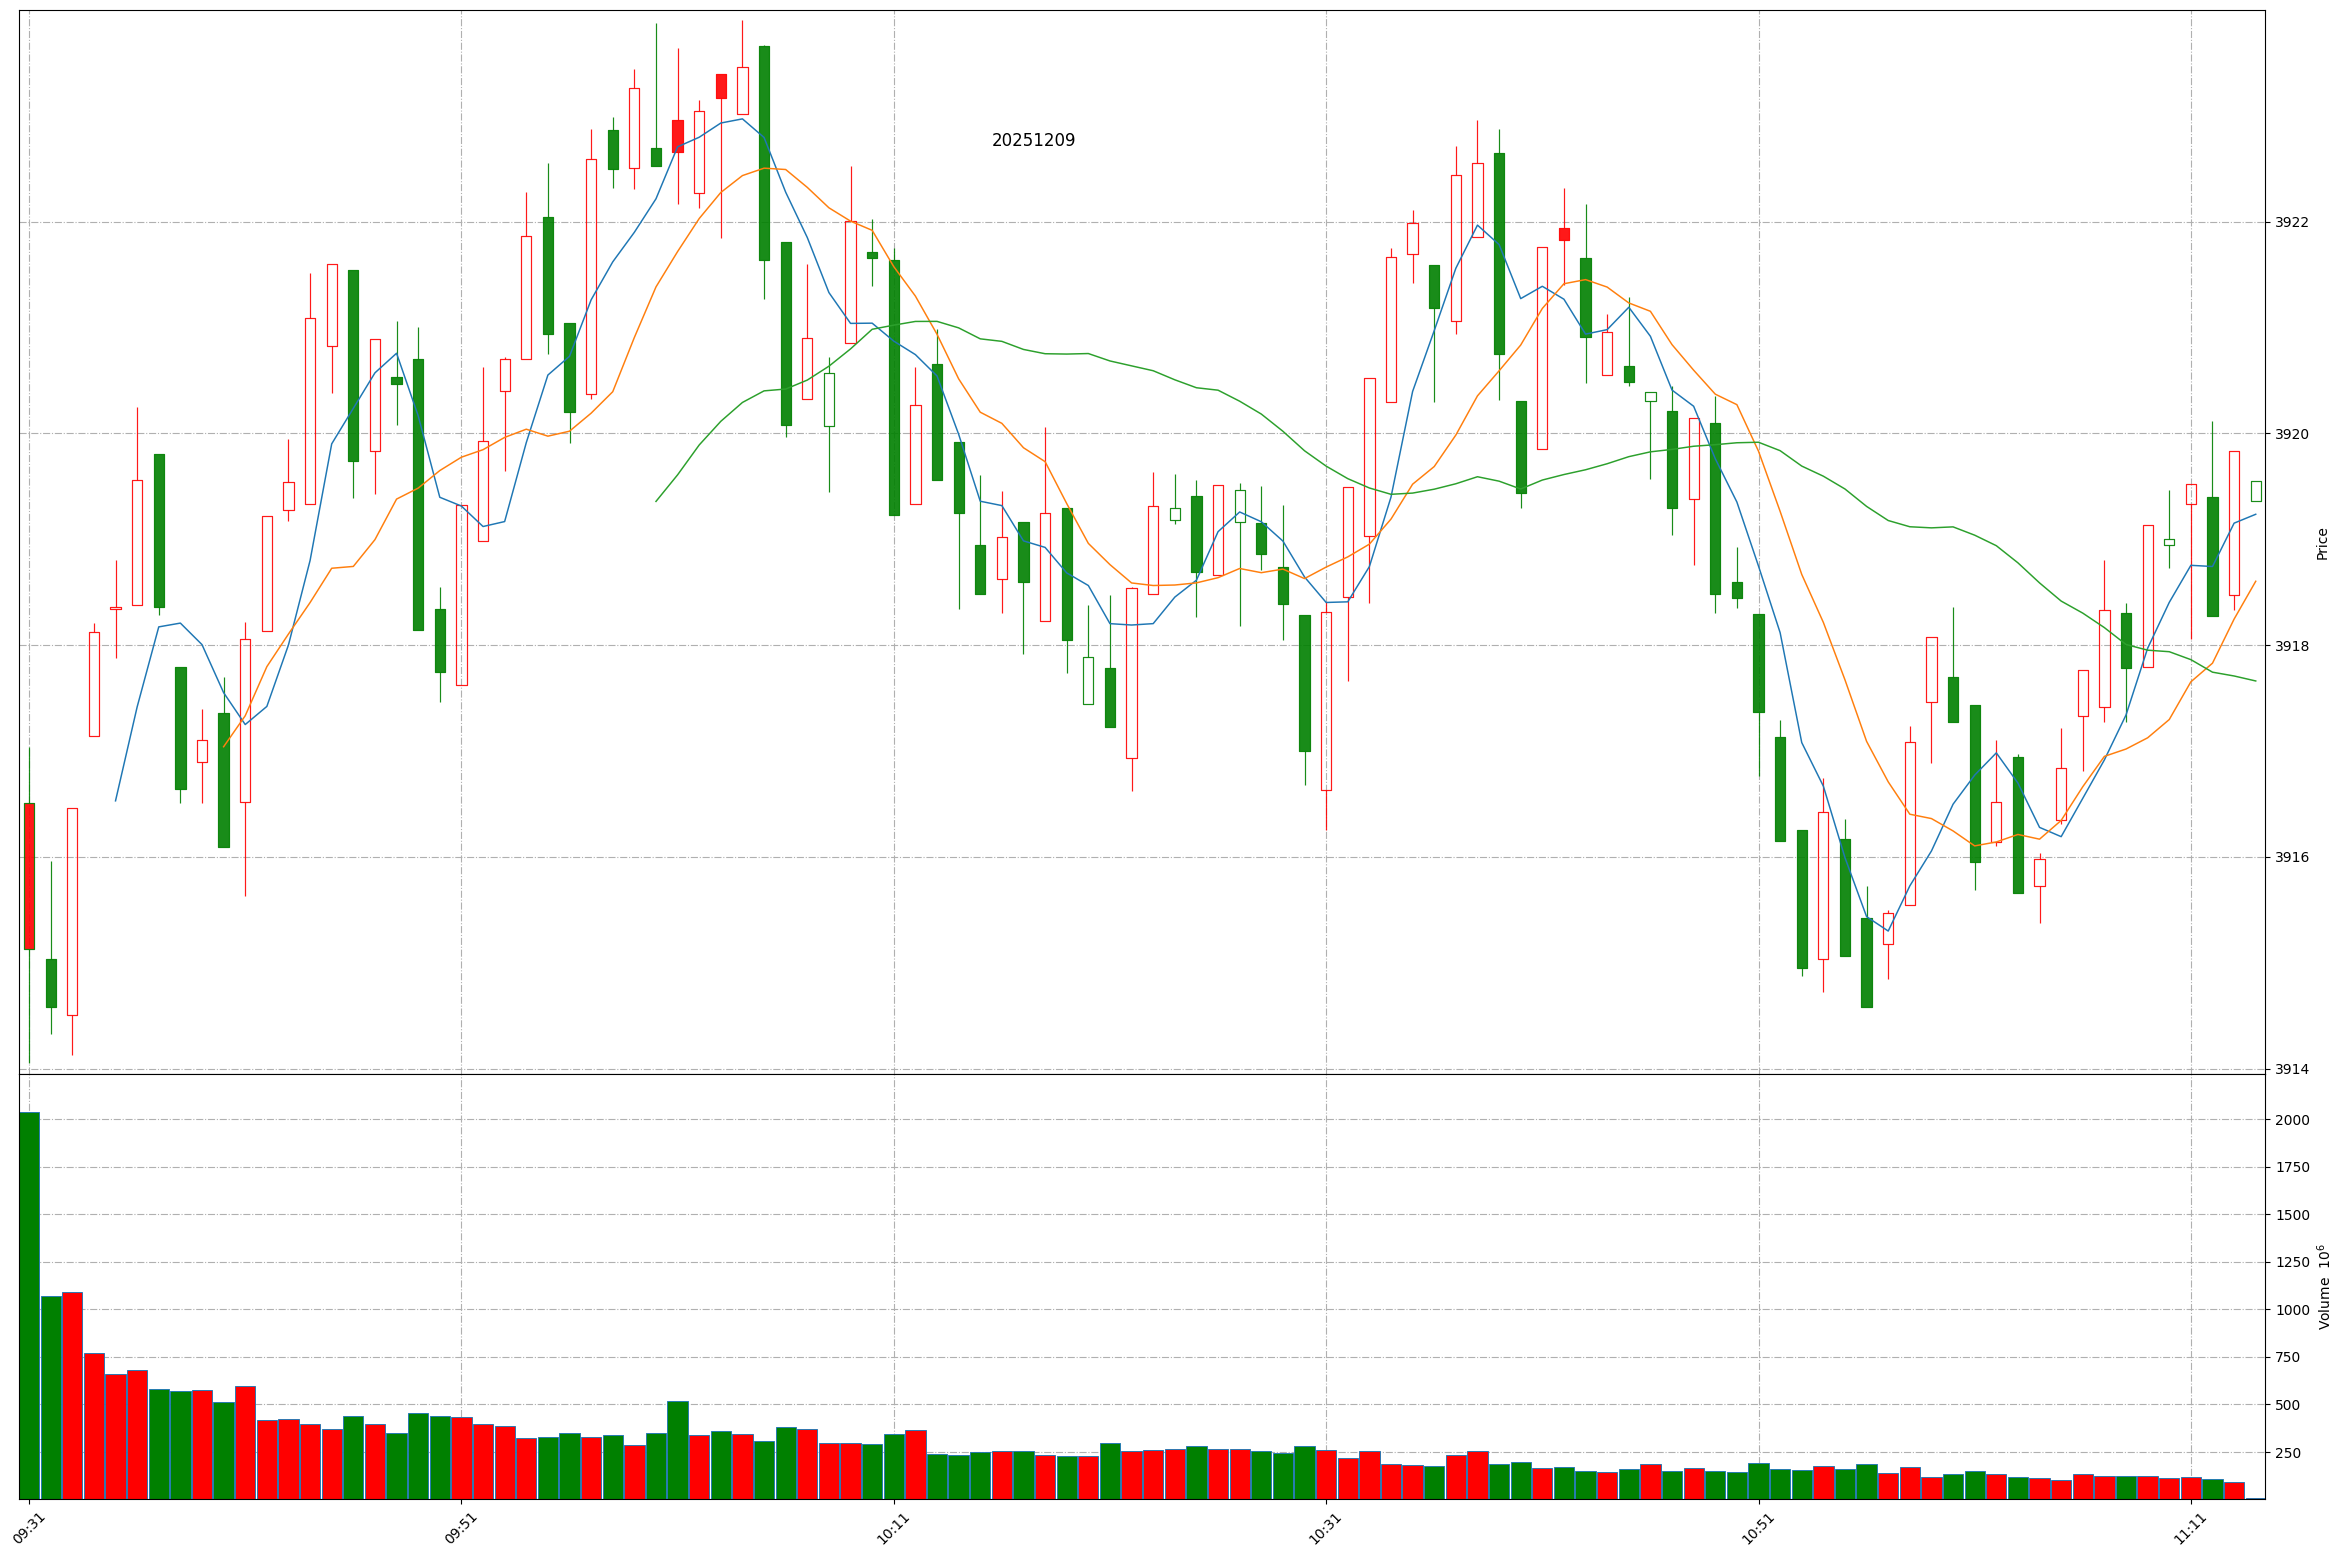
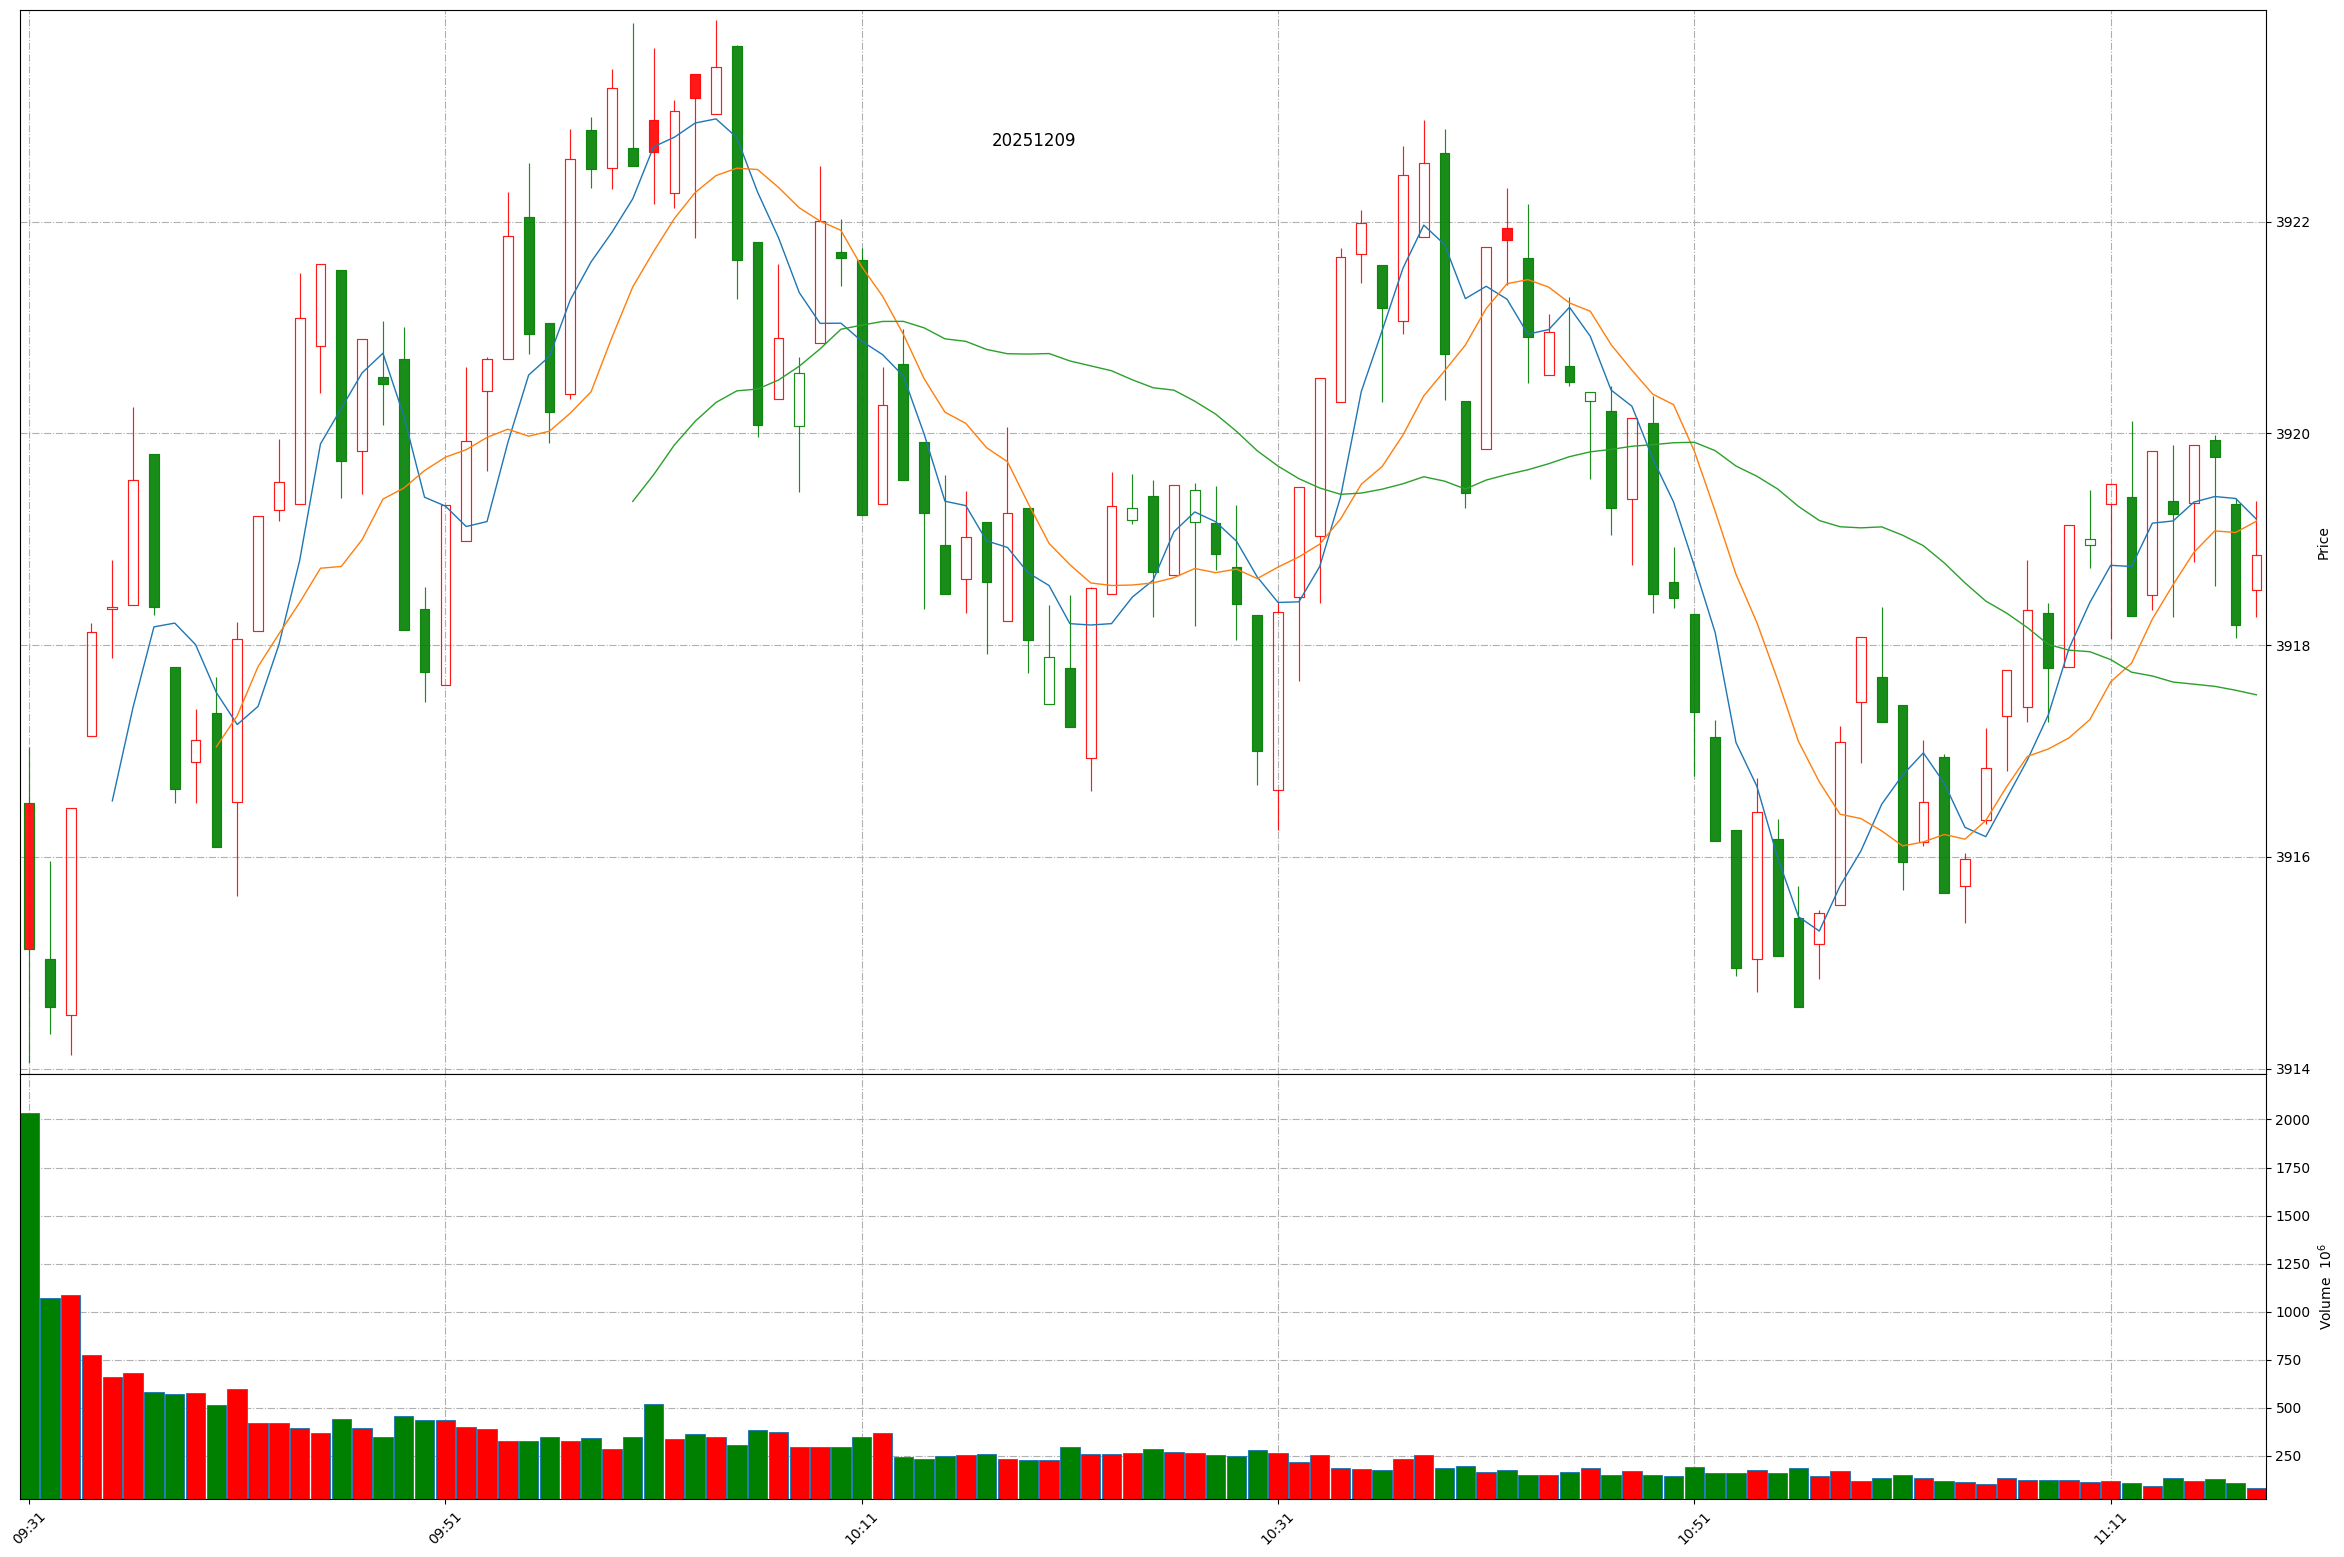
Github action update at 2025-12-09 11:18:06.

diff --git a/README.md b/README.md
@@ -1,11 +1,11 @@
 
 # Daily-A-share-market-quotes 每日 A 股指数（5min 更新）- 20251209
 
-### 上证指数 20251209 11:13
+### 上证指数 20251209 11:18
 ![](./fig/2025/12/20251209-sh000001.png)
 
-### 深证成指 20251209 11:13
+### 深证成指 20251209 11:18
 ![](./fig/2025/12/20251209-sz399001.png)
 
-### 北证50 20251209 11:13
+### 北证50 20251209 11:18
 ![](./fig/2025/12/20251209-bj899050.png)
